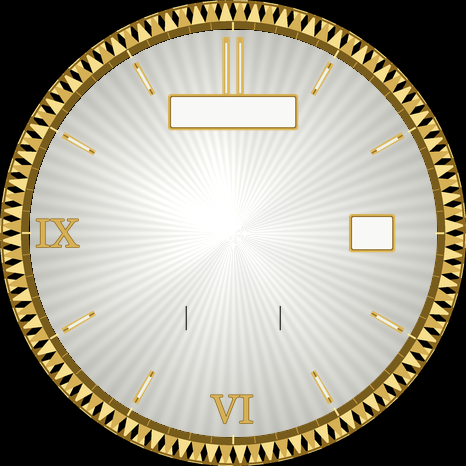
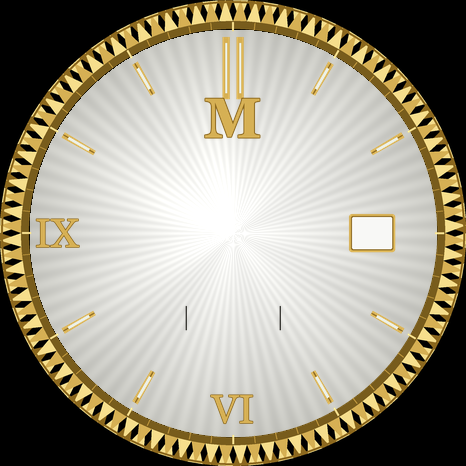
Duz baton ibreler, gun penceresi yerine M monogrami

Changed region(s): [[0.3605, 0.1803, 0.6609, 0.3004]]

diff --git a/build.py b/build.py
@@ -3,7 +3,7 @@
 Huawei Watch GT 3 (466x466) — "Gün-Tarih" stili klasik analog kadran, katman üretici.
 
 Güneş ışını (sunburst) kadran, yivli altın çerçeve, altın baton ibreler,
-12'de gün adı penceresi, 3'te tarih penceresi, alt yarıda adım / nabız / pil.
+12'de M monogramı, 3'te tarih penceresi, alt yarıda adım / nabız / pil.
 Kadran rengi 6 varyant: siyah, sari, mavi, yesil, kirmizi, beyaz.
 
 Çalıştır:  python build.py
@@ -23,6 +23,7 @@ FONT_DIR = r"C:\Windows\Fonts"
 F_SERIF = os.path.join(FONT_DIR, "georgia.ttf")       # Roma rakamları
 F_SANS_B = os.path.join(FONT_DIR, "segoeuib.ttf")     # sayılar, gün adı
 F_SANS = os.path.join(FONT_DIR, "segoeui.ttf")
+F_LOGO = os.path.join(FONT_DIR, "georgiab.ttf")      # M logosu
 
 OUT = os.path.dirname(os.path.abspath(__file__))
 AKTIF = os.path.join(OUT, "katmanlar", "aktif")
@@ -51,13 +52,11 @@ KADRAN = {
 # Açık kadranlarda (sarı, beyaz) alt yarıdaki veri yazıları koyu set ile okunur
 KOYU_KADRANLAR = ("sari", "beyaz")
 
-GUNLER = ["Pazar", "Pazartesi", "Salı", "Çarşamba", "Perşembe", "Cuma", "Cumartesi"]  # 0 = Pazar
-GUN_KISA = ["Paz", "Pzt", "Sal", "Car", "Per", "Cum", "Cmt"]
 
 R_BEZEL_DIS, R_BEZEL_IC = 233, 212      # yivli çerçeve
 R_REHAUT = 204                           # iç eğik halka
-POS_GUN = (233, 112)                     # gün penceresi merkezi
-GUN_BOX = (124, 30)
+POS_LOGO = (233, 118)                    # M logosu merkezi
+LOGO_BOX = (72, 72)
 POS_TARIH = (372, 233)                   # tarih penceresi merkezi
 TARIH_BOX = (40, 32)
 VERI_Y = 318                             # adım / nabız / pil satırı
@@ -179,18 +178,37 @@ def bezel_ve_indeksler(koyu_yazi=False):
         d.line([cx + off * s, cy - 190 * s, cx + off * s, cy - 140 * s], fill=LUME, width=int(2.2 * s))
 
     # gün penceresi (12) ve tarih penceresi (3): beyaz zemin, altın çerçeve
-    for pos, box in ((POS_GUN, GUN_BOX), (POS_TARIH, TARIH_BOX)):
+    for pos, box in ((POS_TARIH, TARIH_BOX),):
         x0, y0 = (pos[0] - box[0] / 2) * s, (pos[1] - box[1] / 2) * s
         x1, y1 = (pos[0] + box[0] / 2) * s, (pos[1] + box[1] / 2) * s
         d.rounded_rectangle([x0 - 3 * s, y0 - 3 * s, x1 + 3 * s, y1 + 3 * s], radius=3 * s, fill=ALTIN)
         d.rounded_rectangle([x0 - 1 * s, y0 - 1 * s, x1 + 1 * s, y1 + 1 * s], radius=2 * s, fill=ALTIN_KOYU)
         d.rounded_rectangle([x0, y0, x1, y1], radius=1.5 * s, fill=BEYAZ)
 
+    # M logosu (altın, koyu kenar)
+    big.alpha_composite(logo_m(ALTIN, ALTIN_KOYU, s), (int(POS_LOGO[0] * s - LOGO_BOX[0] * s / 2),
+                                                     int(POS_LOGO[1] * s - LOGO_BOX[1] * s / 2)))
+    d = ImageDraw.Draw(big)
+
     # veri satırı ayraçları
     col = SIYAH if koyu_yazi else ALTIN
     for x in (186, 280):
         d.line([x * s, (VERI_Y - 12) * s, x * s, (VERI_Y + 12) * s], fill=col, width=int(1 * s))
     return down(big)
+
+
+def logo_m(col, kenar, s=1, outline=False):
+    """Georgia Bold 'M' monogramı, LOGO_BOX boyutunda (s: süperörnekleme)."""
+    img = Image.new("RGBA", (LOGO_BOX[0] * s, LOGO_BOX[1] * s), TRANSP)
+    d = ImageDraw.Draw(img)
+    f = font(F_LOGO, 56 * s)
+    if outline:
+        d.text((img.width / 2, img.height / 2), "M", font=f, fill=TRANSP, anchor="mm",
+               stroke_width=int(1.3 * s), stroke_fill=col)
+    else:
+        d.text((img.width / 2, img.height / 2), "M", font=f, fill=col, anchor="mm",
+               stroke_width=int(1.2 * s), stroke_fill=kenar)
+    return img
 
 
 def arka_plan(renk):
@@ -208,14 +226,16 @@ def baton_ibre(uzunluk, genislik, kuyruk, aod=False):
     d = ImageDraw.Draw(big)
     cx, cy = C[0] * s, C[1] * s
     L, Wd, T = uzunluk * s, genislik * s, kuyruk * s
-    pts = [(cx - Wd * 0.35, cy + T), (cx - Wd / 2, cy - L * 0.25), (cx - Wd / 2, cy - L + Wd * 0.8),
-           (cx, cy - L), (cx + Wd / 2, cy - L + Wd * 0.8), (cx + Wd / 2, cy - L * 0.25), (cx + Wd * 0.35, cy + T)]
+    # düz baton: gövde eşit genişlikte, uç hafif daralır, kuyruk dar
+    pts = [(cx - Wd * 0.3, cy + T), (cx - Wd * 0.3, cy - 14 * s), (cx - Wd / 2, cy - 22 * s),
+           (cx - Wd * 0.4, cy - L), (cx + Wd * 0.4, cy - L),
+           (cx + Wd / 2, cy - 22 * s), (cx + Wd * 0.3, cy - 14 * s), (cx + Wd * 0.3, cy + T)]
     if aod:
         d.polygon(pts, outline=AOD_ALTIN, width=int(1.6 * s))
         return down(big)
     d.polygon(pts, fill=ALTIN)
     d.polygon(pts, outline=ALTIN_KOYU, width=int(1.2 * s))
-    d.line([cx, cy - L * 0.2, cx, cy - L + Wd * 1.2], fill=LUME, width=int(Wd * 0.42))
+    d.rectangle([cx - Wd * 0.22, cy - L + 7 * s, cx + Wd * 0.22, cy - L * 0.42], fill=LUME)
     return down(big)
 
 
@@ -292,12 +312,6 @@ def rakam_seti(folder, col, size, bw, ekstra=True):
             save(img, folder, f"{name}.png")
 
 
-def gun_seti(folder, col, size=17, box=GUN_BOX):
-    f = font(F_SANS_B, size)
-    for i, t in enumerate(GUNLER):
-        img = Image.new("RGBA", box, TRANSP)
-        ImageDraw.Draw(img).text((box[0] / 2, box[1] / 2 + 1), tr_buyuk(t), font=f, fill=col, anchor="mm")
-        save(img, folder, f"gun_{i:02d}_{GUN_KISA[i]}.png")
 
 
 # ---------------------------------------------------------------- önizleme birleştirme
@@ -319,7 +333,7 @@ def dondur(img, deg):
     return img.rotate(-deg, resample=Image.BICUBIC, center=C)
 
 
-def onizleme_aktif(renk, saat, dk, sn, adim, nabiz, pil, gun, gunadi):
+def onizleme_aktif(renk, saat, dk, sn, adim, nabiz, pil, gun):
     base = Image.open(os.path.join(AKTIF, f"00_arka_plan_{renk}.png")).convert("RGBA")
     set_ = "koyu" if renk in KOYU_KADRANLAR else "altin"
     rk = os.path.join(AKTIF, "rakam_veri_" + set_)
@@ -329,7 +343,6 @@ def onizleme_aktif(renk, saat, dk, sn, adim, nabiz, pil, gun, gunadi):
     sayi_yaz(base, rk, str(nabiz), (VERI_X[1] + 6, VERI_Y))
     yerlestir(base, Image.open(os.path.join(AKTIF, f"simge_pil_{set_}.png")), (VERI_X[2] - 24, VERI_Y))
     sayi_yaz(base, rk, f"{pil}%", (VERI_X[2] + 8, VERI_Y))
-    yerlestir(base, Image.open(os.path.join(AKTIF, "gun", f"gun_{gunadi:02d}_{GUN_KISA[gunadi]}.png")), POS_GUN)
     sayi_yaz(base, os.path.join(AKTIF, "rakam_tarih"), f"{gun:02d}", POS_TARIH)
     h_deg = (saat % 12) * 30 + dk * 0.5
     base.alpha_composite(dondur(Image.open(os.path.join(AKTIF, "ibre_saat.png")), h_deg))
@@ -339,9 +352,8 @@ def onizleme_aktif(renk, saat, dk, sn, adim, nabiz, pil, gun, gunadi):
     return base
 
 
-def onizleme_aod(saat, dk, gun, gunadi):
+def onizleme_aod(saat, dk, gun):
     base = Image.open(os.path.join(AOD, "00_arka_plan.png")).convert("RGBA")
-    yerlestir(base, Image.open(os.path.join(AOD, "gun", f"gun_{gunadi:02d}_{GUN_KISA[gunadi]}.png")), POS_GUN)
     sayi_yaz(base, os.path.join(AOD, "rakam_tarih"), f"{gun:02d}", POS_TARIH)
     base.alpha_composite(dondur(Image.open(os.path.join(AOD, "ibre_saat.png")), (saat % 12) * 30 + dk * 0.5))
     base.alpha_composite(dondur(Image.open(os.path.join(AOD, "ibre_dakika.png")), dk * 6))
@@ -374,7 +386,10 @@ def aod_arka_plan():
     for off in (-7, 7):
         d.rectangle([(cx + off * s) - 3 * s, cy - 196 * s, (cx + off * s) + 3 * s, cy - 140 * s],
                     outline=AOD_ALTIN, width=int(1.3 * s))
-    for pos, box in ((POS_GUN, GUN_BOX), (POS_TARIH, TARIH_BOX)):
+    big.alpha_composite(logo_m(AOD_ALTIN, None, s, outline=True),
+                        (int(POS_LOGO[0] * s - LOGO_BOX[0] * s / 2), int(POS_LOGO[1] * s - LOGO_BOX[1] * s / 2)))
+    d = ImageDraw.Draw(big)
+    for pos, box in ((POS_TARIH, TARIH_BOX),):
         d.rounded_rectangle([(pos[0] - box[0] / 2) * s, (pos[1] - box[1] / 2) * s,
                              (pos[0] + box[0] / 2) * s, (pos[1] + box[1] / 2) * s],
                             radius=2 * s, outline=AOD_ALTIN, width=int(1.3 * s))
@@ -392,8 +407,8 @@ def main():
     # --- aktif katmanlar
     for renk in KADRAN:
         save(arka_plan(renk), AKTIF, f"00_arka_plan_{renk}.png")
-    save(baton_ibre(128, 13, 24), AKTIF, "ibre_saat.png")
-    save(baton_ibre(188, 11, 28), AKTIF, "ibre_dakika.png")
+    save(baton_ibre(122, 15, 22), AKTIF, "ibre_saat.png")
+    save(baton_ibre(192, 13, 26), AKTIF, "ibre_dakika.png")
     save(saniye_ibresi(), AKTIF, "ibre_saniye.png")
     save(merkez_kapak(), AKTIF, "merkez_kapak.png")
     for ad, col in (("altin", ALTIN), ("koyu", SIYAH)):
@@ -402,18 +417,17 @@ def main():
         save(simge_pil(col), AKTIF, f"simge_pil_{ad}.png")
         rakam_seti(os.path.join(AKTIF, f"rakam_veri_{ad}"), col, size=22, bw=13)
     rakam_seti(os.path.join(AKTIF, "rakam_tarih"), SIYAH, size=26, bw=15, ekstra=False)
-    gun_seti(os.path.join(AKTIF, "gun"), SIYAH)
+    save(logo_m(ALTIN, ALTIN_KOYU, 4).resize(LOGO_BOX, Image.LANCZOS), AKTIF, "logo_m.png")
 
     # --- AOD katmanları
     save(aod_arka_plan(), AOD, "00_arka_plan.png")
-    save(baton_ibre(128, 13, 24, aod=True), AOD, "ibre_saat.png")
-    save(baton_ibre(188, 11, 28, aod=True), AOD, "ibre_dakika.png")
+    save(baton_ibre(122, 15, 22, aod=True), AOD, "ibre_saat.png")
+    save(baton_ibre(192, 13, 26, aod=True), AOD, "ibre_dakika.png")
     save(merkez_kapak(aod=True), AOD, "merkez_kapak.png")
     rakam_seti(os.path.join(AOD, "rakam_tarih"), AOD_GRI, size=26, bw=15, ekstra=False)
-    gun_seti(os.path.join(AOD, "gun"), AOD_GRI)
 
     # --- önizlemeler
-    ornek = dict(gun=19, gunadi=1)                      # 19, Pazartesi
+    ornek = dict(gun=19)
     a1 = onizleme_aktif("yesil", 10, 9, 36, adim=6482, nabiz=72, pil=85, **ornek)
     a1.save(os.path.join(ONIZ, "aktif_yesil_10_09.png"))
     aod1 = onizleme_aod(10, 9, **ornek)

diff --git a/README.md b/README.md
@@ -1,6 +1,6 @@
 # WatchFaceGT3 — Huawei Watch GT 3 için "Gün-Tarih" stili klasik analog kadran
 
-Güneş ışını (sunburst) kadran, yivli altın çerçeve, altın baton ibreler, 12'de gün adı penceresi, 3'te tarih penceresi, alt yarıda adım / nabız / pil. Kadran rengi altı seçenek: **siyah, sarı, mavi, yeşil, kırmızı, beyaz**. Sade bir AOD (sürekli açık ekran) varyantı vardır. Tüm katmanlar `build.py` ile üretilir; PNG'ler elle düzenlenmez. Marka logosu veya yazısı yoktur.
+Güneş ışını (sunburst) kadran, yivli altın çerçeve, altın baton ibreler, 12'de **M** monogramı, 3'te tarih penceresi, alt yarıda adım / nabız / pil. Kadran rengi altı seçenek: **siyah, sarı, mavi, yeşil, kırmızı, beyaz**. Sade bir AOD (sürekli açık ekran) varyantı vardır. Tüm katmanlar `build.py` ile üretilir; PNG'ler elle düzenlenmez. Marka logosu veya yazısı yoktur.
 
 | Aktif (yeşil) | Renkler + AOD |
 |---|---|
@@ -10,8 +10,8 @@ Güneş ışını (sunburst) kadran, yivli altın çerçeve, altın baton ibrele
 
 - Çözünürlük **466 × 466** (46 mm ve 42 mm modellerin ikisi de).
 - Kadran paket sürümü **2.1.z** zorunlu ("WATCH + GT series" modu).
-- Metin kontrolünde yalnız sistem fontları (Roboto) var; bu yüzden gün adları ve rakamlar **PNG** olarak üretildi.
-- AOD'de siyah olmayan piksel oranı **%10 altı ideal, %20 üstü reddedilir**. Bu tasarımda en kötü durumda **≈%4,2**. `build.py` çalışınca oranı yazdırır.
+- Metin kontrolünde yalnız sistem fontları (Roboto) var; bu yüzden rakamlar ve M logosu **PNG** olarak üretildi.
+- AOD'de siyah olmayan piksel oranı **%10 altı ideal, %20 üstü reddedilir**. Bu tasarımda en kötü durumda **≈%4**. `build.py` çalışınca oranı yazdırır.
 - Tek görsel ≤ 750 KB (en büyük katman ≈ 210 KB, sarı arka plan).
 - Dokunma kısayolları yalnız saatin yerleşik uygulamalarını açabilir.
 
@@ -33,14 +33,14 @@ katmanlar/aktif/
   simge_{adim,kalp,pil}_koyu.png    sarı/beyaz kadran için
   rakam_veri_altin/  rakam_veri_koyu/   0-9 + yuzde + iki_nokta  (13x28)
   rakam_tarih/       0-9 siyah (15x32) — tarih penceresi
-  gun/               gun_00_Paz … gun_06_Cmt (124x30, 0 = Pazar)
+  logo_m.png         M monogramı (72x72; arka plana zaten işlenmiş, ayrı katman istenirse)
 katmanlar/aod/
-  00_arka_plan.png  ibre_saat.png  ibre_dakika.png  merkez_kapak.png  rakam_tarih/  gun/
+  00_arka_plan.png  ibre_saat.png  ibre_dakika.png  merkez_kapak.png  rakam_tarih/
 onizleme/
   aktif_yesil_10_09.png  aod_10_09.png  renkler_ve_aod.png
 ```
 
-Renkler `KADRAN` sözlüğünde (merkez, kenar) olarak; konumlar `POS_GUN`, `POS_TARIH`, `VERI_X/VERI_Y` sabitlerinde. Değiştir → tekrar çalıştır.
+Renkler `KADRAN` sözlüğünde (merkez, kenar) olarak; konumlar `POS_LOGO`, `POS_TARIH`, `VERI_X/VERI_Y` sabitlerinde. Değiştir → tekrar çalıştır.
 
 ## Theme Studio'da birleştirme (.hwt üretimi)
 
@@ -50,14 +50,14 @@ Koordinatlar aşağıda **merkez** olarak verilir; Theme Studio sol-üst köşe 
 
 1. **New Project → Watch Face**. Device: *WATCH + GT series*, Resolution **466 × 466**, Version **2.1.z**. Proje adı: WatchFaceGT3.
 2. **Arka plan (renk seçimi)**: `Background` kontrolüne `00_arka_plan_yesil.png` yükle. Kullanıcının saatte rengi değiştirebilmesi için Theme Studio'nun **Style (stil değiştirme)** özelliğini kullan: arka plan kontrolünde *Style* ekle, her stile bir renk dosyasını ata (6 stil). Saatte kadrana uzun basınca *Stil* seçeneğinden renk değişir. Not: sarı ve beyaz stillerde veri simgeleri/rakamları için `_koyu` setini, diğerlerinde `_altin` setini aynı stil gruplarına bağla (simgeler ve veri sayıları da *Style*'a dahil edilir).
-3. **Gün adı**: `Image Sequence` kontrolü, veri *Week day*, `gun/` klasöründeki 7 dosya, merkez **(233,112)** → sol-üst (171,97). Dosya sırası **0 = Pazar … 6 = Cumartesi**; Theme Studio haftayı Pazartesi'den başlatıyorsa sırayı sürükleyerek düzelt, önizlemede bugünün adıyla doğrula.
+3. **M logosu**: arka plan PNG'lerine işlenmiştir, ayrıca katman gerekmez. (Değiştirmek istersen `logo_m.png` 72 × 72, merkez (233,118).)
 4. **Tarih**: `Image Number` kontrolü, `rakam_tarih/0-9`, veri *Day*, iki hane, hizalama *center*, merkez **(372,233)**.
 5. **Veri satırı** (y = 318): `Image` + `Image Number` (`rakam_veri_altin/`, hizalama center):
    - Adım: simge `simge_adim_*.png` merkez (110,318); sayı veri *Steps*, merkez (146,318). 5 haneye kadar sığar.
    - Nabız: simge `simge_kalp_*.png` (209,318); sayı veri *Heart rate*, merkez (239,318).
    - Pil: simge `simge_pil_*.png` (302,318); sayı veri *Battery*, merkez (334,318), son ek `yuzde.png`.
 6. **İbreler**: `Pointer` kontrolleri. Üç ibre PNG'si tam tuval (466 × 466), **saat 12'yi gösterir**, dönme merkezi **(233,233)**. `ibre_saat.png` (Hour), `ibre_dakika.png` (Minute), `ibre_saniye.png` (Second). En üste `merkez_kapak.png` `Image` olarak (0,0).
-7. **AOD**: Sol panelde *AOD* sekmesine geç; `katmanlar/aod/` dosyalarıyla arka plan, gün, tarih, saat ve dakika ibresi, merkez kapağı ekle (saniye ibresi ve veri satırı **yok**). Theme Studio'nun "AOD pixel ratio" uyarısı çıkmamalı (ölçüm ≈%4).
+7. **AOD**: Sol panelde *AOD* sekmesine geç; `katmanlar/aod/` dosyalarıyla arka plan, tarih, saat ve dakika ibresi, merkez kapağı ekle (saniye ibresi ve veri satırı **yok**). Theme Studio'nun "AOD pixel ratio" uyarısı çıkmamalı (ölçüm ≈%4).
 8. **Kapak görseli**: `onizleme/aktif_yesil_10_09.png`.
 9. **Build → Export** ile `.hwt` dosyasını üret.
 
